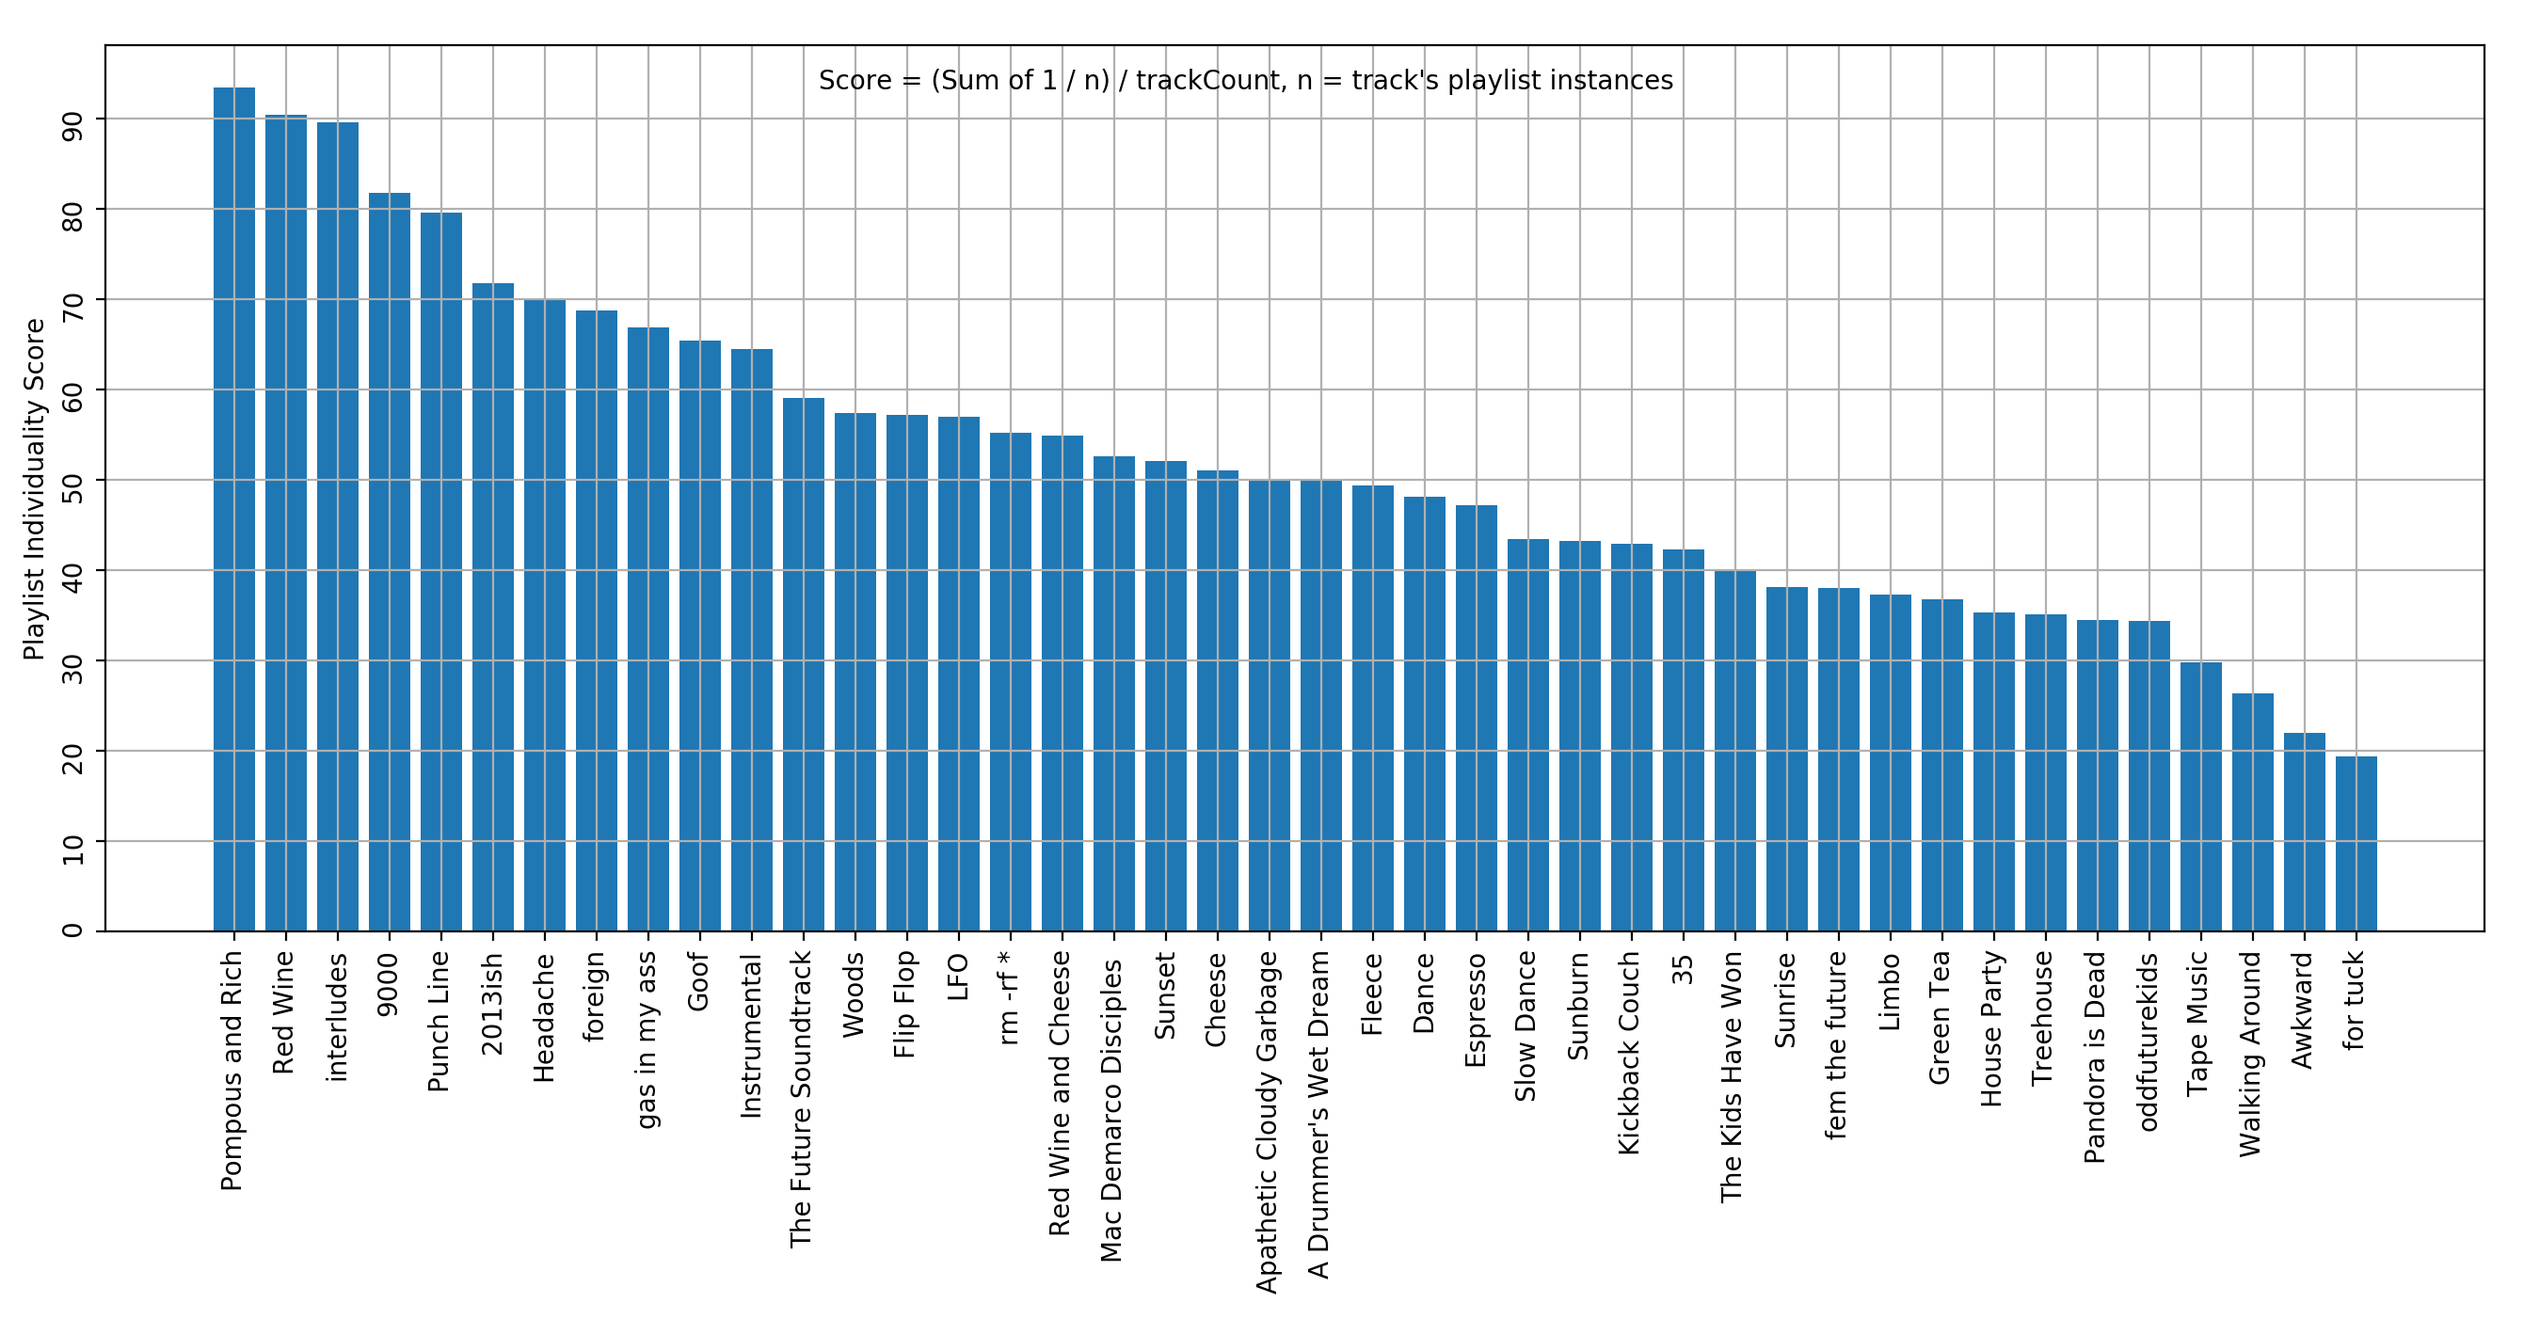
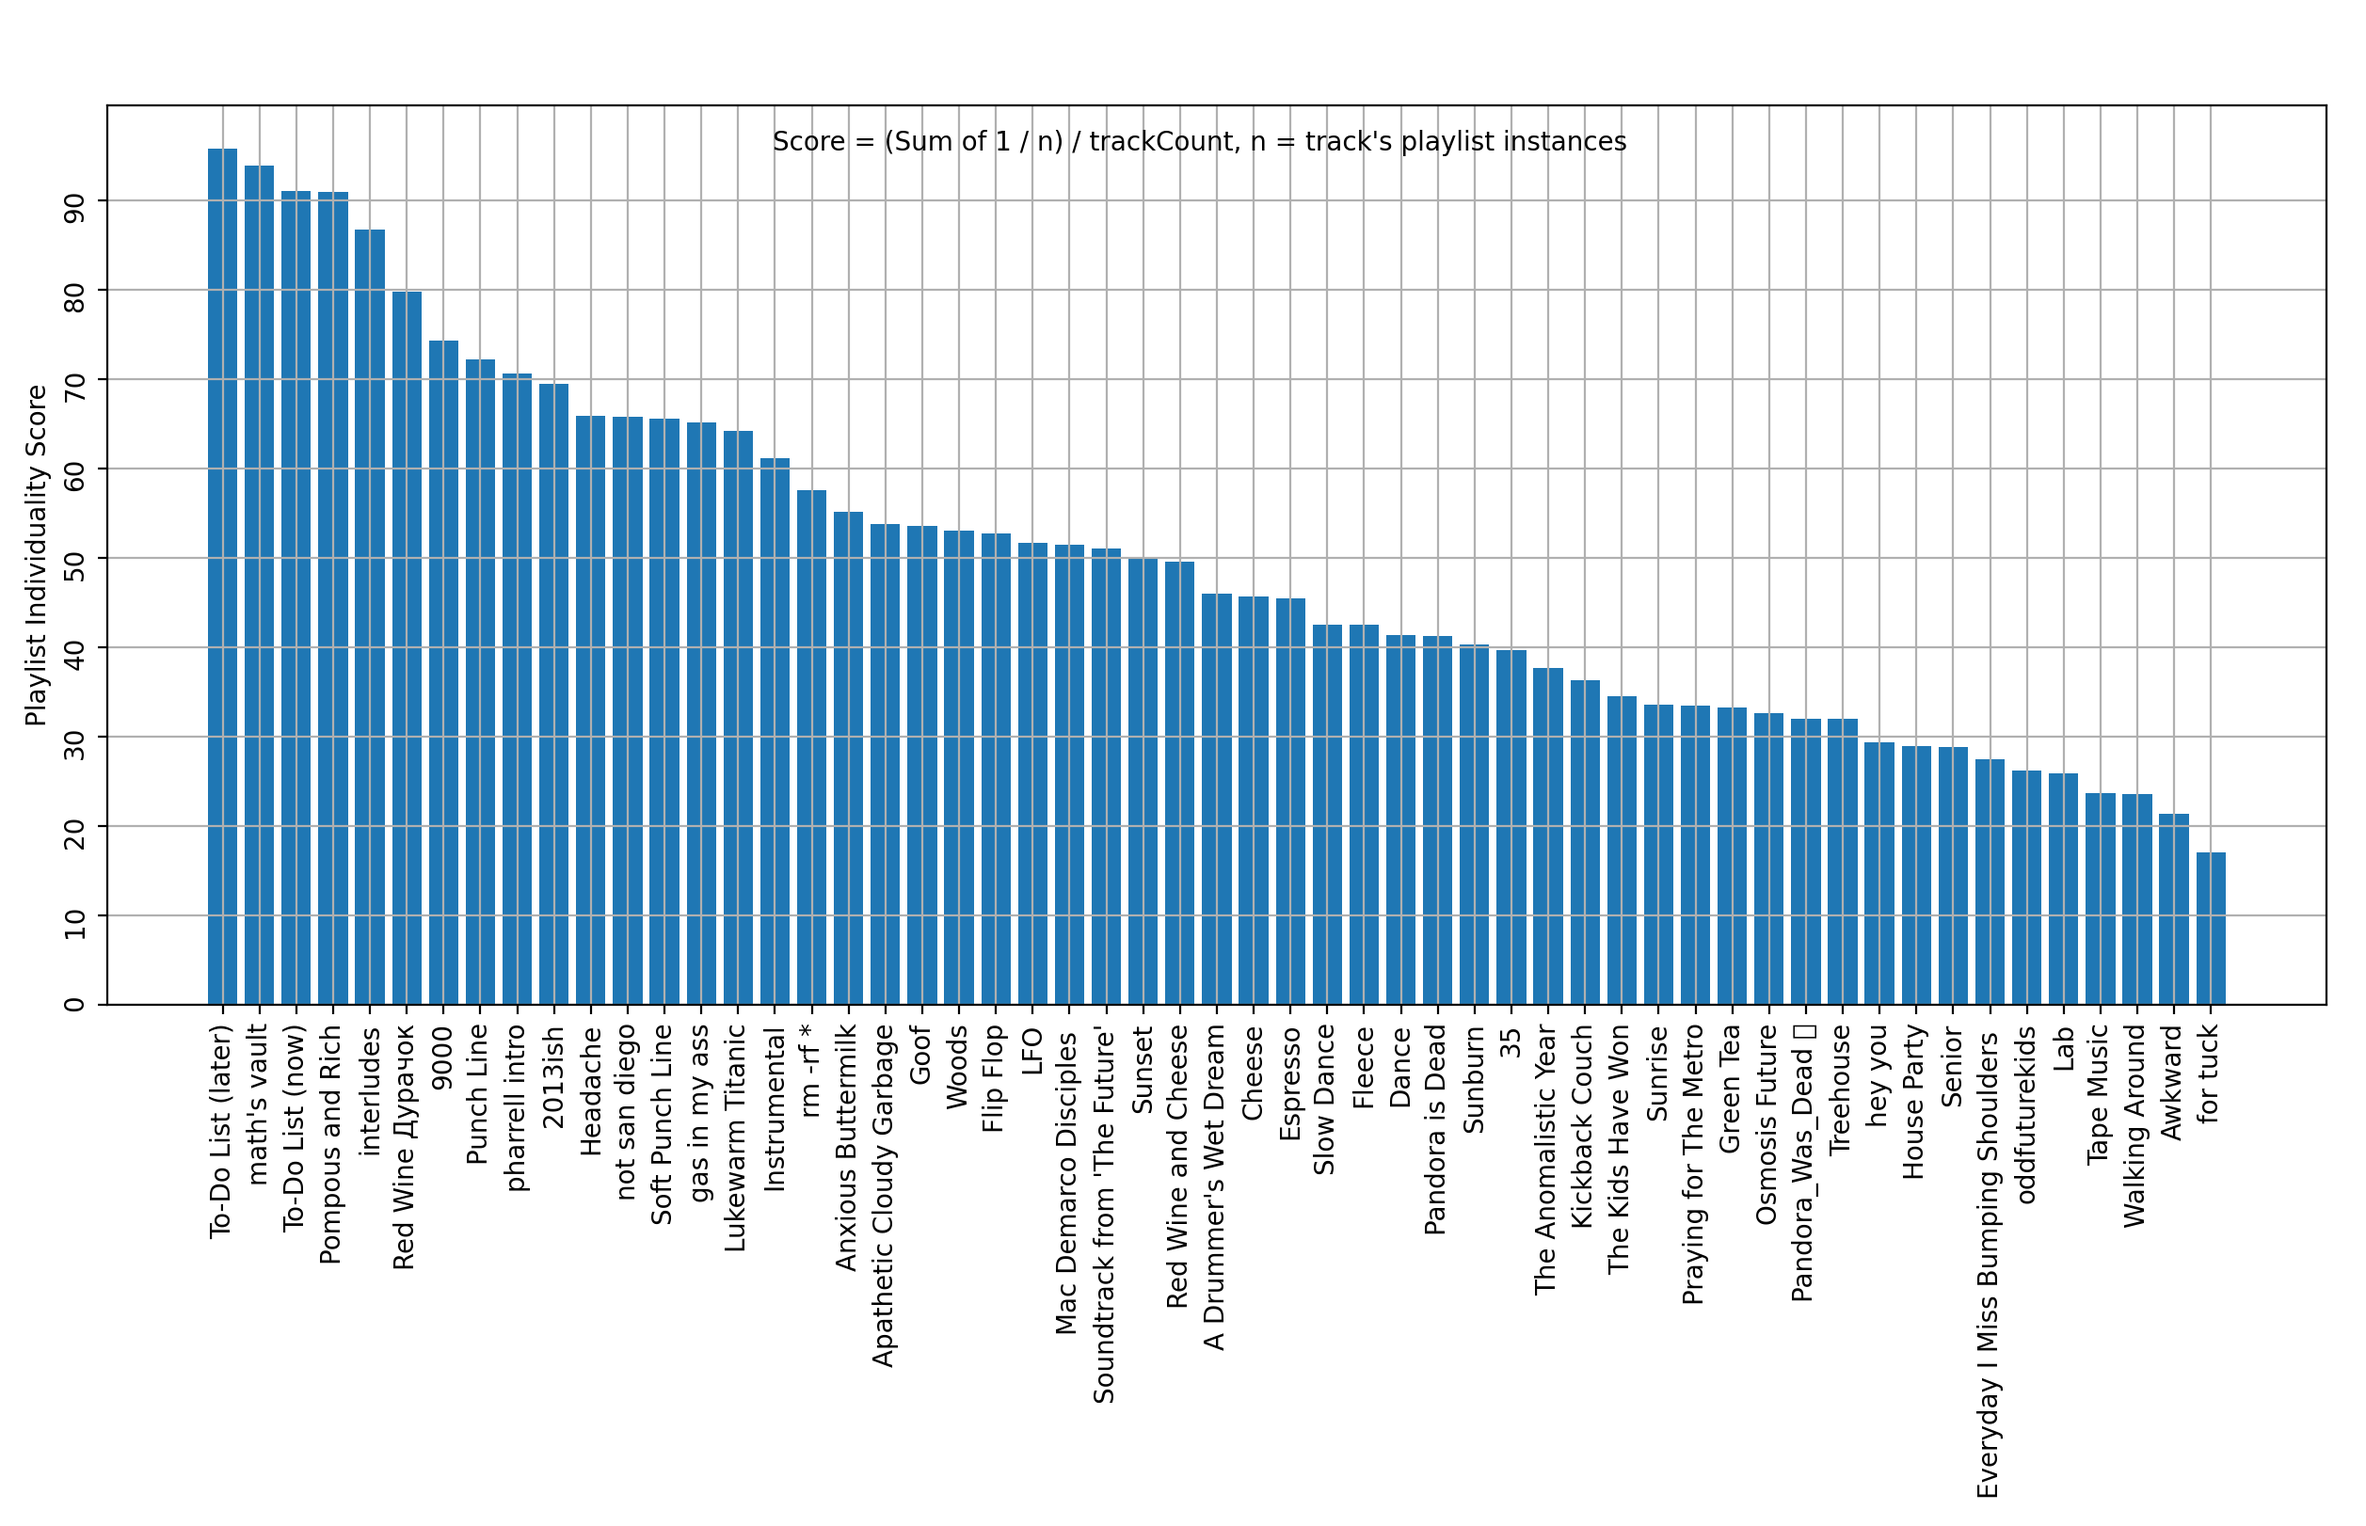
Updated images for 2020

Changed region(s): [[0.0, 0.0307, 0.9928, 0.9815], [0.8377, 0.9201, 0.8687, 0.9815], [0.2482, 0.8281, 0.2792, 0.8588]]

diff --git a/repeatPlaylistKing.py b/repeatPlaylistKing.py
@@ -19,21 +19,12 @@ repeatCount = [0]
 
 # Quality of life improvements
 arbitraryFilter = True
-extraNiceArbitraryFilter = True
 
 # To-Do Playlists, Sadboys, and every running playlist
-filterList = ["To-Do List (now)", "To-Do List (later)", "math's vault", "Sadboys", "Running best of (163-173 BPM)",
-"Phantom Desperado Drum Machine Buff (163-173 BPM)", "Cheese and alternative dishes (163-173 BPM)", "australian indie mishmash  (163-173 BPM)",
-"Red Wine and Cheese (163-173 BPM)", "Early June Garbage Type (163-173 BPM)", "Bounced Checks Type Run (163-173 BPM)",
-"Running early may bedroom garbage type beat (163-173 BPM halftime)", "Running late april psych pop type beat (163-173 BPM halftime)",
-"Running late march brockhampton type beat (163-173 BPM halftime)", "Running dirty indie pop type beat (163-173 BPM)", "Running sadboy indie garbage type beat (163-173 BPM)",
-"Running bedroom pop / DOOM mix (82-87 BPM)", "Running math's valult grab bag (163-173 BPM)", "Running floorida indie rap type beat (163-173 BPM)",
-"Running alt laptop indie pop type beat (163-173 BPM)", "Running alt boom bap type beat (162-172 BPM)", "Running bass music grab bag (162-172 BPM)",
-"Running high energy grab bag (163-173 BPM)", "SalviaFunkSpotifyRemix", "Running sweet as honey type beat (165-175 BPM)", "Apathetic Cloudy Garbage (163 - 173 BPM)",
-"ChillBoomBap @G (163 - 173 BPM Halftime)"]
+filter_keywords = ["Junior", "Sophomore", "Freshman", "Young_Junior", "Young_Senior", "7-10 grade", "TheIndieBlog", "BPM"]
 
 # My "archive time period" playlists
-extraFilterList = ["Junior", "Sophomore", "Freshman", "HS Junior", "HS Senior", "7-10 grade", "TheIndieBlog"]
+extraFilterList = []
 
 class Playlist(object):
 	def __init__(self, name, length):
@@ -110,11 +101,11 @@ def show_tracks(tracks, count, playlist):
 
 
 
-"""Ask for Spotify Username 
-#username = raw_input('Enter Spotify Username:') """
-username = ''
+# Ask for Spotify Username 
+username = raw_input('Enter Spotify Username:')
+# username = ''
 
-# Generate your own @ spotify.developer.dashboard.com? 
+# Generate your own @ https://developer.spotify.com/dashboard/, set redirect to google url below
 client_id = ''
 client_secret = ''
 redirect_uri = 'http://www.google.com/'
@@ -133,20 +124,19 @@ playlists = sp.user_playlists(username)
 while playlists:
 	for pCount, playlist in enumerate(playlists['items']):
 		if playlist['owner']['id'] == username:
-			arbitraryCheck = arbitraryFilter == True and not playlist['name'] in filterList
-			extraCheck = extraNiceArbitraryFilter == True and not playlist['name'] in extraFilterList
-			if arbitraryCheck and extraCheck:
-				totalTrackCount += playlist['tracks']['total']
-				playlistCount.append(Playlist(playlist['name'], playlist['tracks']['total']))
-				currentCount = 1
-				print(playlist['name'])
-				print(' total tracks', playlist['tracks']['total'])
-				results = sp.user_playlist(username, playlist['id'], fields="tracks,next")
-				tracks = results['tracks']
+			if arbitraryFilter and any(word in playlist['name'] for word in filter_keywords):
+				break
+			totalTrackCount += playlist['tracks']['total']
+			playlistCount.append(Playlist(playlist['name'], playlist['tracks']['total']))
+			currentCount = 1
+			print(playlist['name'])
+			print(' total tracks', playlist['tracks']['total'])
+			results = sp.user_playlist(username, playlist['id'], fields="tracks,next")
+			tracks = results['tracks']
+			currentCount = show_tracks(tracks, currentCount, playlist['name'])
+			while tracks['next']:
+				tracks = sp.next(tracks)
 				currentCount = show_tracks(tracks, currentCount, playlist['name'])
-				while tracks['next']:
-					tracks = sp.next(tracks)
-					currentCount = show_tracks(tracks, currentCount, playlist['name'])
 	if playlists['next']:
 	    playlists = sp.next(playlists)
 	else:
@@ -166,7 +156,6 @@ for track in seen:
 
 # Mean and Filter Quality of life improvements
 print("arbitraryFilter = " + str(arbitraryFilter))
-print("extraNiceArbitraryFilter = " + str(extraNiceArbitraryFilter))
 print("\n" + "Mean playlists per track: " + str(round(mean, 4)) + "\n")
 numberRepeatCount = list()
 trackPercent = list()
@@ -194,7 +183,7 @@ seen.sort(key=lambda track: track.count, reverse = True)
 for i in range(0, 31):
 	seen[i].printSelf()
 
-""" Playlist Individuality Graph
+""" Playlist Individuality Graph """
 playlistIndex = np.arange(len(playlistCount))
 plt.ylabel("Playlist Individuality Score")
 plt.bar(playlistIndex, playlistScores)
@@ -203,7 +192,7 @@ plt.axis('auto')
 plt.grid(True)
 plt.annotate("Score = (Sum of 1 / n) / trackCount, n = track's playlist instances", xy=(.3, .95), xycoords='axes fraction')
 plt.yticks(np.arange(0, playlistScores[0], step = 10.0), rotation='vertical')
-plt.show() """
+plt.show() 
 
 """ Track Playlist Distribution Graph """
 trackIndex = np.arange(len(repeatCount))
